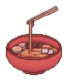
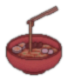
Enseigne fleur derrière la voiture, skyline plus sombre, ramen assombri et adouci

Changed region(s): [[0.0588, 0.0741, 0.9412, 0.9383], [0.3824, 0.2716, 0.4118, 0.2963]]

diff --git a/index.html b/index.html
@@ -519,7 +519,7 @@
   const sc = document.createElement('canvas'); sc.width = SG.w * SK; sc.height = SG.h * SK; const sg = sc.getContext('2d');
   const stex = new THREE.CanvasTexture(sc); stex.magFilter = stex.minFilter = THREE.LinearFilter; stex.generateMipmaps = false;
   const signMesh = new THREE.Mesh(new THREE.PlaneGeometry(SG.w, SG.h), new THREE.MeshBasicMaterial({ map: stex, transparent: true, depthWrite: false }));
-  signMesh.position.set(SG.x + SG.w / 2, -(SG.y + SG.h / 2), 0.82); scene.add(signMesh);
+  signMesh.position.set(SG.x + SG.w / 2, -(SG.y + SG.h / 2), 0.65); scene.add(signMesh);   // far-building sign: behind the car and the cat
   const signS = { flick: 1, next: 6 + Math.random() * 12, hold: 0 };
   function drawSign() {
     const W = SG.w * SK, H = SG.h * SK; sg.clearRect(0, 0, W, H);
